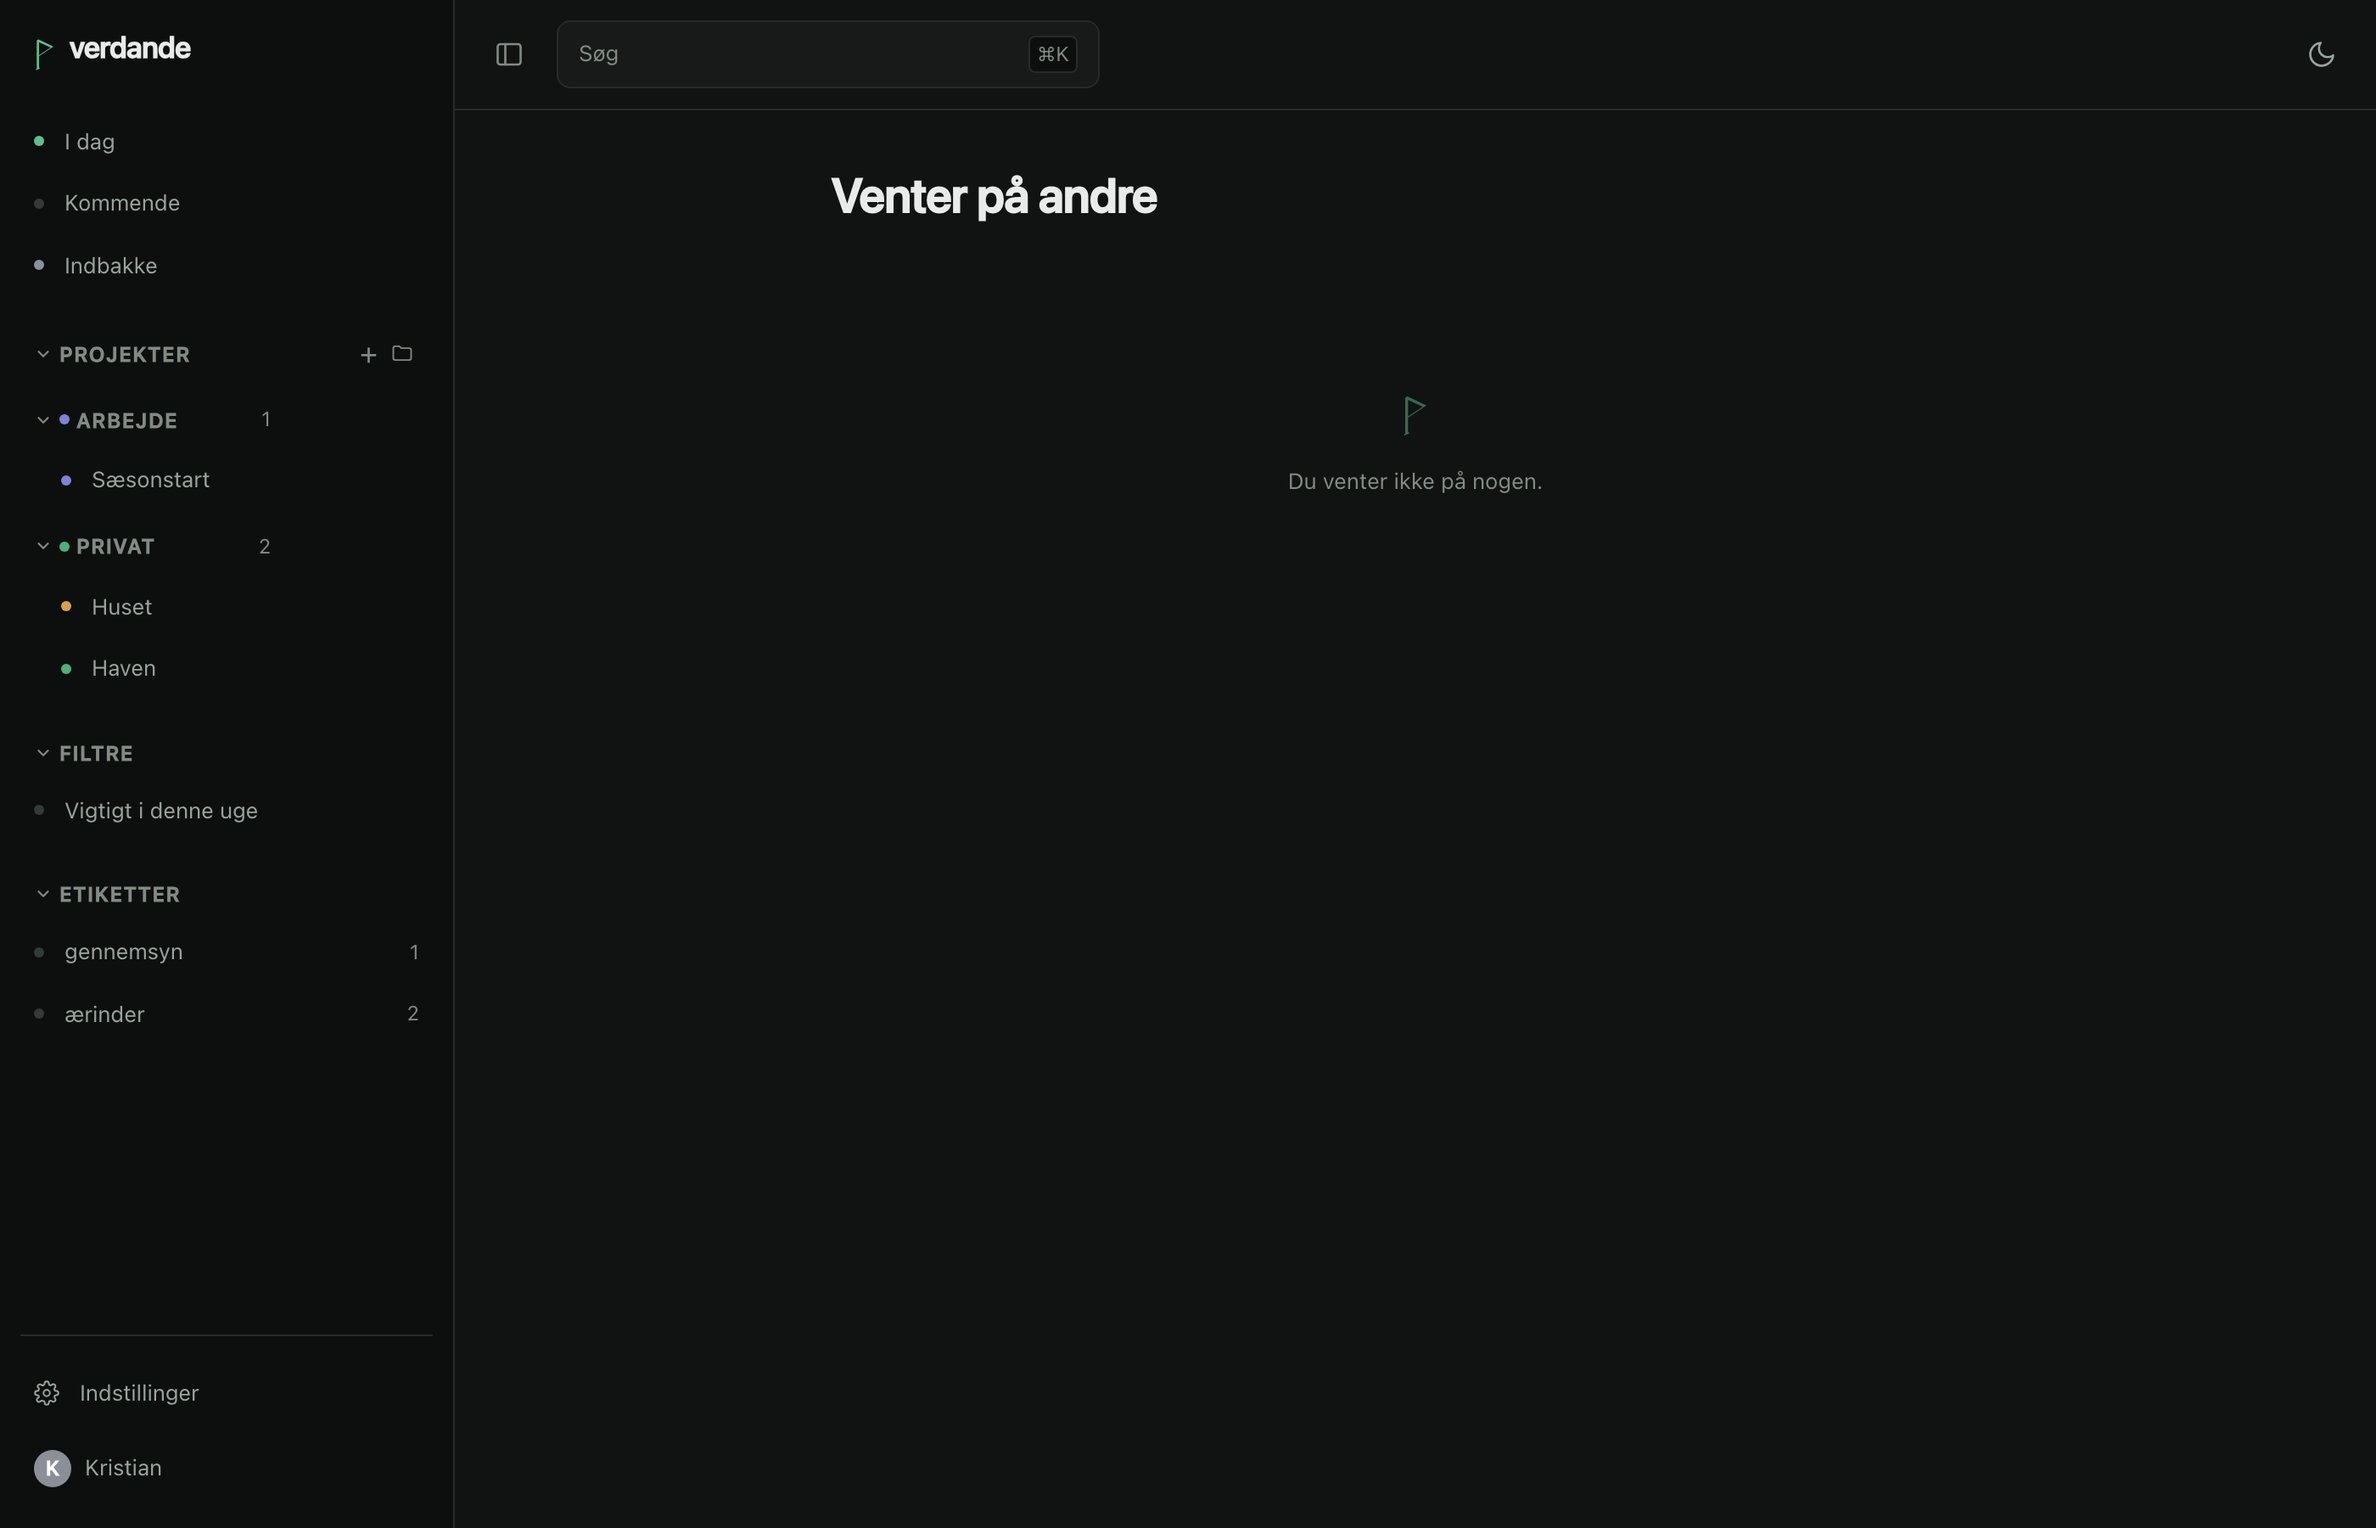
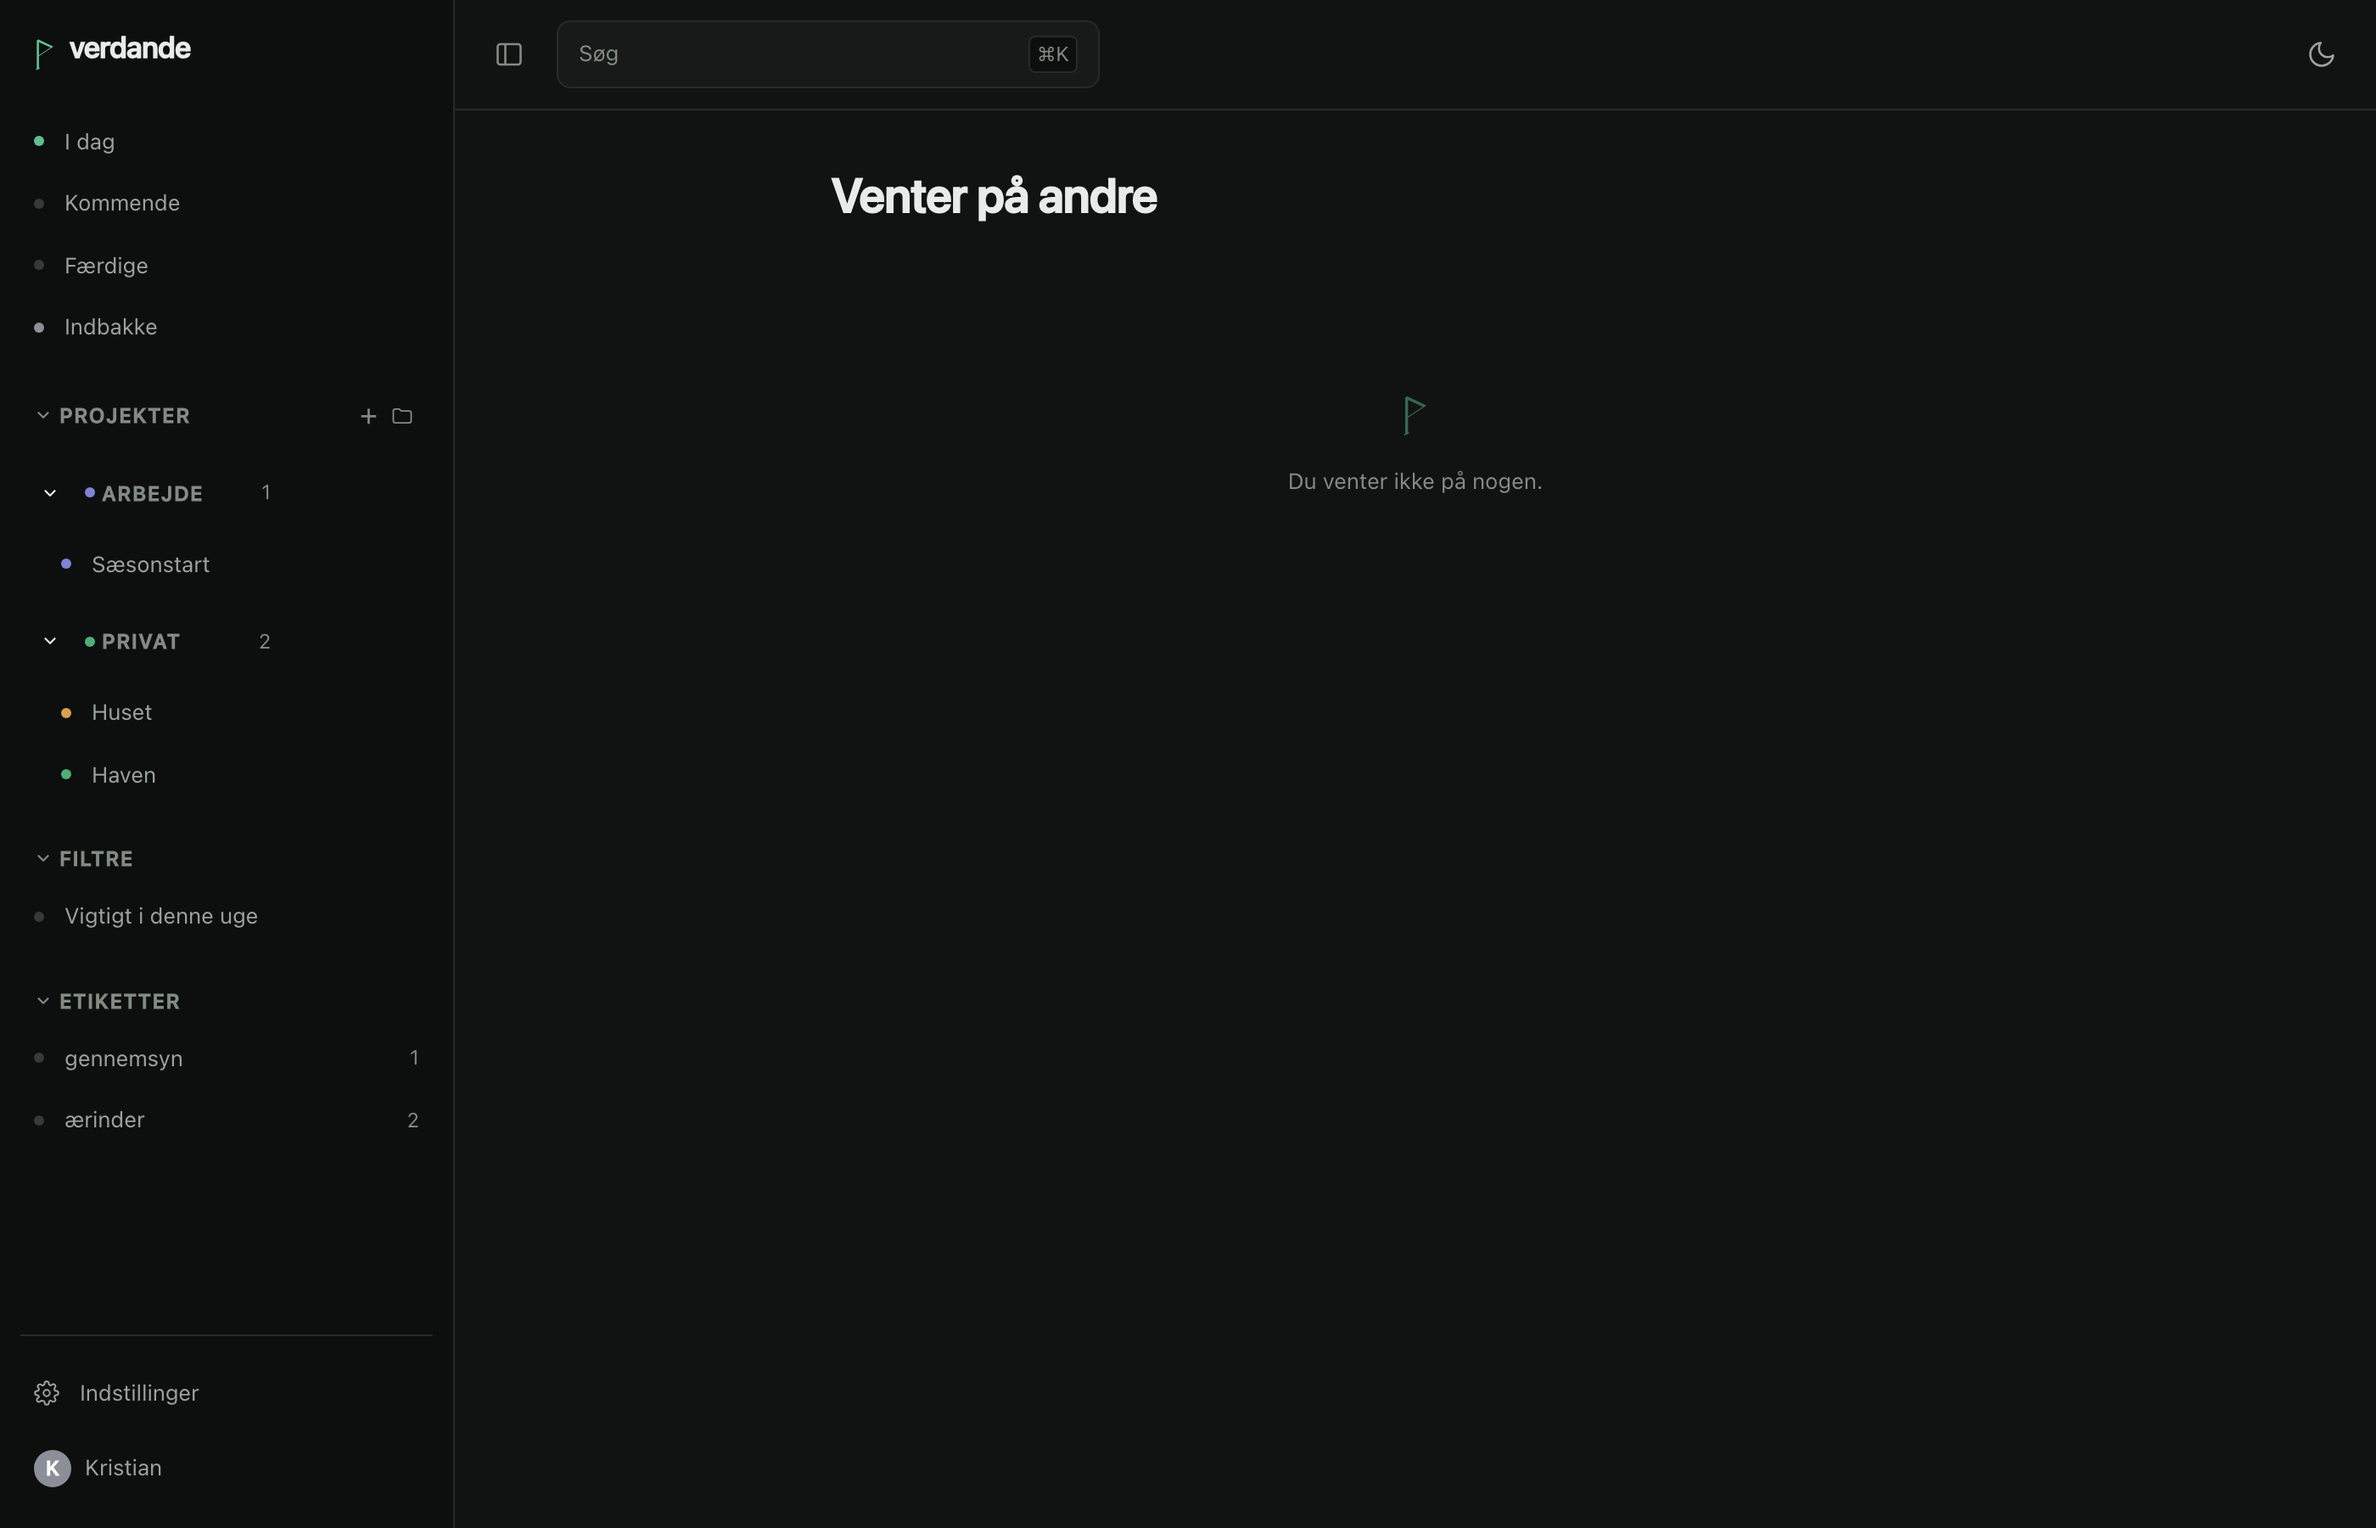
feat(projects): section headings you can count at a glance, and an Inbox that speaks the language
Two from use.

Section headings were small uppercase text over a hairline — a heading you have to
look for. A project with four sections is four groups, and the eye should be able
to count them without reading a word, so the heading gets a ground of its own and
the rows sit against the page. `--surface` rather than a tint of the accent: the
colour on that page belongs to the project, and a section is not a second thing to
colour. A step in lightness separates them in all five themes without anybody
measuring anything.

And the Inbox. The server names it at account creation, before anybody has seen a
settings page, so it is the one project name nobody chose — and an account made in
Danish went on saying "Indbakke" inside an English interface, which reads as a
string somebody forgot to translate. It was. `projectName()` translates it while it
still carries the name the server gave it; rename it and that is your name for it,
in every language, like any other project. The rename field keeps the raw name, or
editing a translated label would save the translation.

The screenshot set gains the list view, which is where sections read as bands
rather than as columns — and the shape most people actually work in.

Changed region(s): [[0.0311, 0.3111, 0.0932, 0.7467], [0.0311, 0.1556, 0.0932, 0.28]]

diff --git a/web/src/routes/projekt/[id]/+page.svelte b/web/src/routes/projekt/[id]/+page.svelte
@@ -3,7 +3,7 @@
 	import { page } from '$app/stores';
 	import { goto } from '$app/navigation';
 	import { api, humanMessage } from '$lib/api.js';
-	import { app, completedView } from '$lib/stores.svelte.js';
+	import { app, completedView, projectName } from '$lib/stores.svelte.js';
 	import { COLORS, colorVar } from '$lib/colors.js';
 	import { eventName, eventDetail } from '$lib/events.js';
 	import { TASK, carries, dragged, accept } from '$lib/dnd.js';
@@ -434,10 +434,10 @@
 				<h1 class:renameable={isOwner}>
 					{#if isOwner}
 						<button onclick={() => (editing = true)} title={t('project.clickToRename')}>
-							{project.name}
+							{projectName(project)}
 						</button>
 					{:else}
-						{project.name}
+						{projectName(project)}
 					{/if}
 				</h1>
 			{/if}
@@ -1273,19 +1273,39 @@
 		margin-bottom: var(--s2);
 	}
 
+	/* A band rather than a rule.
+	 *
+	 * Small uppercase text over a hairline is a heading you have to look for. A
+	 * project with four sections is four groups, and the eye should be able to
+	 * count them without reading a word — so the heading gets a ground of its own,
+	 * and the rows below sit against the page.
+	 *
+	 * `--surface`, not a tint of the accent: the colour on this page belongs to the
+	 * project, and a section is not a second thing to colour. What is wanted is
+	 * separation, and a step in lightness gives that in all five themes without
+	 * anybody measuring anything.
+	 */
 	.section-head {
 		display: flex;
 		align-items: baseline;
 		gap: var(--s3);
-		border-bottom: 1px solid var(--line);
-		margin-bottom: var(--s2);
+		background: var(--surface);
+		border-radius: var(--radius);
+		padding: var(--s2) var(--s3);
+		margin-bottom: var(--s1);
+		/* Pulled out to the padding of the rows below, so the band lines up with the
+		   text it heads rather than with the rows' own inset. */
+		margin-left: calc(var(--s2) * -1);
+		margin-right: calc(var(--s2) * -1);
 	}
 
 	.section-head h2 {
 		border-bottom: 0;
 		margin-bottom: 0;
+		padding: 0;
 		flex: 1;
 		min-width: 0;
+		color: var(--ink-muted);
 	}
 
 	/* Hidden until the section is hovered or something in it has focus: a heading

diff --git a/web/scripts/generate-screenshots.js b/web/scripts/generate-screenshots.js
@@ -51,6 +51,9 @@ const SHOTS = [
 	{ name: 'upcoming', path: '/upcoming', theme: 'dark', prepare: showMonth },
 	{ name: 'week', path: '/upcoming', theme: 'dark', prepare: showWeek },
 	{ name: 'board', path: (ids) => `/projekt/${ids.work}`, theme: 'dark' },
+	// The same project as a list, which is where sections read as bands rather than
+	// as columns — and the shape most people actually work in.
+	{ name: 'sections', path: (ids) => `/projekt/${ids.work}`, theme: 'dark', prepare: showList },
 	{ name: 'detail', path: '/', theme: 'dark', prepare: openFirstTask },
 	{ name: 'settings', path: '/indstillinger/integrationer', theme: 'dark' },
 	{ name: 'themes', path: '/indstillinger', theme: 'dark' },
@@ -58,6 +61,11 @@ const SHOTS = [
 	{ name: 'history', path: '/indstillinger/historik', theme: 'dark' },
 	{ name: 'delegated', path: '/uddelegeret', theme: 'dark' }
 ];
+
+async function showList(page) {
+	await page.getByRole('button', { name: 'Liste', exact: true }).click();
+	await page.waitForTimeout(600);
+}
 
 async function showMonth(page) {
 	await page.getByRole('button', { name: 'Måned', exact: true }).click();

diff --git a/web/src/lib/stores.svelte.js b/web/src/lib/stores.svelte.js
@@ -620,6 +620,28 @@ class AppState {
 	}
 }
 
+/**
+ * What to call a project on screen.
+ *
+ * Almost always its own name — somebody wrote it and it is theirs. The Inbox is the
+ * exception: the server names it at account creation, before anybody has seen a
+ * settings page, so it is the one project name nobody chose. Leaving it as stored
+ * meant an account created in Danish said "Indbakke" in an English interface, which
+ * reads as a string somebody forgot to translate. It was.
+ *
+ * Only while it still carries a name the server gave it. Rename it and that is your
+ * name for it, in every language — the same rule as any other project.
+ */
+const SYSTEM_INBOX_NAMES = new Set(['indbakke', 'inbox']);
+
+export function projectName(project) {
+	if (!project) return '';
+	if (project.is_inbox && SYSTEM_INBOX_NAMES.has(project.name.trim().toLowerCase())) {
+		return t('nav.inbox');
+	}
+	return project.name;
+}
+
 /** Enough of a task's title to recognise it, without a toast the width of the page. */
 function truncate(text, max = 40) {
 	const trimmed = text.trim();

diff --git a/web/e2e/smoke.spec.js b/web/e2e/smoke.spec.js
@@ -1157,8 +1157,13 @@ test('kontoens sprog skifter hele fladen, ikke kun parseren', async ({ page }) =
 		/januar|februar|marts|maj|juni|juli|oktober|december/i
 	);
 
-	// The Inbox keeps its name: it is a project row created at signup, not a
-	// string in the interface, and the person can rename it like any other.
+	// The Inbox is named by the server at account creation, before anybody has seen
+	// a settings page — so it is the one project name nobody chose, and it follows
+	// the language like a label. Rename it and that becomes your name for it in
+	// every language, the same rule as any other project.
+	await expect(
+		page.getByRole('navigation', { name: 'Main menu' }).getByRole('link', { name: 'Inbox' })
+	).toBeVisible();
 
 	// Danish again, for everything that runs after this.
 	await page.goto('/indstillinger');

diff --git a/web/src/routes/gruppe/[id]/+page.svelte b/web/src/routes/gruppe/[id]/+page.svelte
@@ -13,7 +13,7 @@
 	 */
 	import { page } from '$app/stores';
 	import { api, humanMessage } from '$lib/api.js';
-	import { app } from '$lib/stores.svelte.js';
+	import { app, projectName } from '$lib/stores.svelte.js';
 	import { colorVar } from '$lib/colors.js';
 	import { focusOnMount } from '$lib/focus.js';
 	import { t } from '$lib/i18n.svelte.js';
@@ -165,7 +165,7 @@
 							<a href="/projekt/{project.id}">
 								<span class="dot" style="background: {colorVar(project.color)}" aria-hidden="true"
 								></span>
-								{project.name}
+								{projectName(project)}
 								<!-- Counted by the server in the same request. Open tasks, not all
 								     of them: "12" beside a project finished last year is a number
 								     that means nothing. -->

diff --git a/web/src/lib/components/Sidebar.svelte b/web/src/lib/components/Sidebar.svelte
@@ -1,5 +1,5 @@
 <script>
-	import { app, sidebar } from '$lib/stores.svelte.js';
+	import { app, sidebar, projectName } from '$lib/stores.svelte.js';
 	import { api } from '$lib/api.js';
 	import { TASK, PROJECT, GROUP, startDrag, carries, dragged, accept } from '$lib/dnd.js';
 	import { COLORS, colorVar } from '$lib/colors.js';
@@ -410,7 +410,7 @@
 			ondrop={(e) => (carries(e, TASK) ? onTaskDrop(e, project) : sortable && onDrop(e, project))}
 		>
 			<span class="dot" style="background: {colorVar(project.color)}" aria-hidden="true"></span>
-			{project.name}
+			{projectName(project)}
 			{#if project.shared}
 				<span class="count">{project.member_count}</span>
 			{/if}

diff --git a/web/src/lib/components/TaskDetail.svelte b/web/src/lib/components/TaskDetail.svelte
@@ -11,7 +11,7 @@
 	 * necessarily the last one sent.
 	 */
 	import { api, humanMessage } from '$lib/api.js';
-	import { app } from '$lib/stores.svelte.js';
+	import { app, projectName } from '$lib/stores.svelte.js';
 	import { focusOnMount } from '$lib/focus.js';
 	import { t } from '$lib/i18n.svelte.js';
 
@@ -436,7 +436,7 @@
 				<label for="project">{t('detail.project')}</label>
 				<select id="project" bind:value={projectId} onchange={saveProject}>
 					{#each app.projects as project (project.id)}
-						<option value={project.id}>{project.name}</option>
+						<option value={project.id}>{projectName(project)}</option>
 					{/each}
 				</select>
 			</div>

diff --git a/web/src/routes/indstillinger/historik/+page.svelte b/web/src/routes/indstillinger/historik/+page.svelte
@@ -14,7 +14,7 @@
 	 * audit log must not have.
 	 */
 	import { api, humanMessage } from '$lib/api.js';
-	import { app } from '$lib/stores.svelte.js';
+	import { app, projectName } from '$lib/stores.svelte.js';
 	import { eventName, eventDetail } from '$lib/events.js';
 	import { t } from '$lib/i18n.svelte.js';
 	import { ago } from '$lib/when.js';
@@ -130,7 +130,7 @@
 			<select bind:value={filterProject}>
 				<option value="">{t('history.all')}</option>
 				{#each projects as project (project.id)}
-					<option value={project.id}>{project.name}</option>
+					<option value={project.id}>{projectName(project)}</option>
 				{/each}
 			</select>
 		</label>
